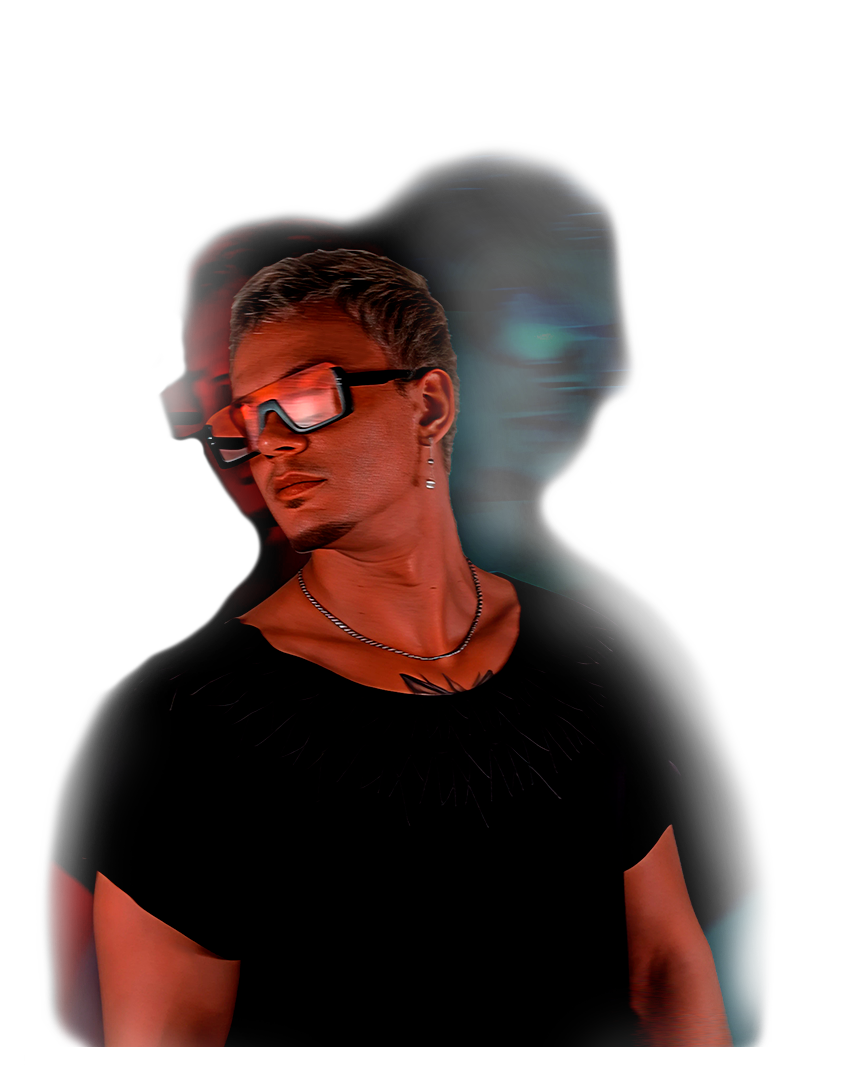
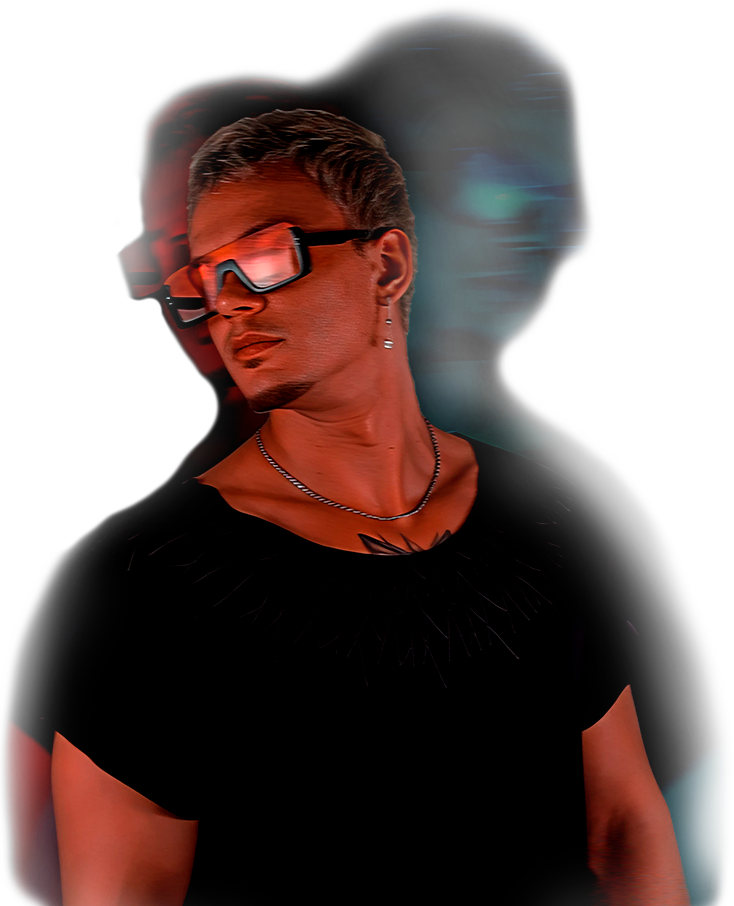
Поправил мобильные стили

diff --git a/src/components/Header/ContactsModal.tsx b/src/components/Header/ContactsModal.tsx
@@ -1,4 +1,5 @@
 import Image from 'next/image';
+import React, { useEffect } from 'react';
 
 interface ContactsModalProps {
   isOpen: boolean;
@@ -6,6 +7,17 @@ interface ContactsModalProps {
 }
 
 const ContactsModal: React.FC<ContactsModalProps> = ({ isOpen, onClose }) => {
+  useEffect(() => {
+    if (isOpen) {
+      document.body.style.overflow = 'hidden';
+    } else {
+      document.body.style.overflow = '';
+    }
+    return () => {
+      document.body.style.overflow = '';
+    };
+  }, [isOpen]);
+
   return (
     <section
       className={`fixed inset-0 z-[999] grid h-screen w-screen place-items-center bg-[#06090bbf]/95 backdrop-blur-md transition-opacity duration-300 ${

diff --git a/src/components/Hero/Hero.tsx b/src/components/Hero/Hero.tsx
@@ -17,12 +17,13 @@ const Hero: React.FC<IProps> = ({ handleOpenModal, isModalOpen }: IProps) => {
       </div>
 
       {/* Фоновое изображение */}
-      <div className="absolute inset-0 mt-[0] ml-[auto] mr-[auto]  mb-[-30px]  w-full">
+      <div className="absolute inset-0 mt-[0] ml-[auto] mr-[auto] mb-[-30px] w-full">
         <Image
           src="/images/idgie/hero.png"
           alt="Background"
           fill
           className="object-cover lg:object-contain"
+          style={{ objectPosition: '33%' }}
           priority
         />
       </div>
